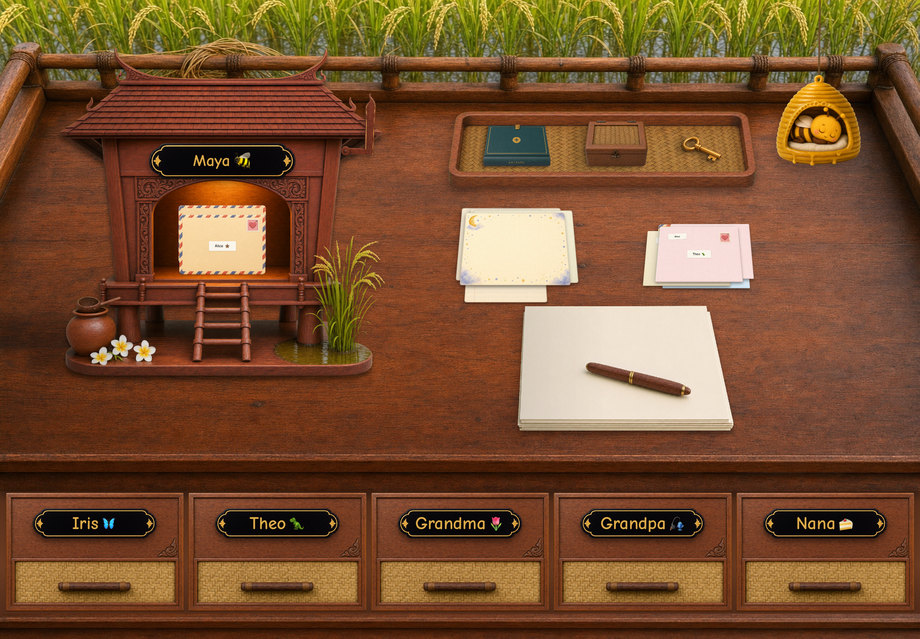
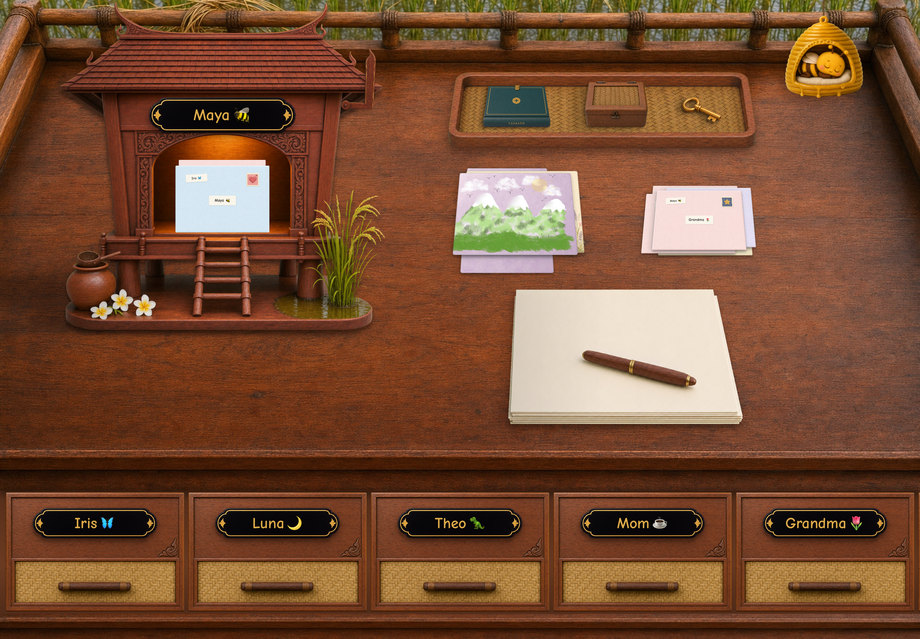
The desks wear the new cast, the consent card gets a real shield, and the letters section says what a letter carries
Six collection desks and the "Start at your desk" capture re-shot from the
app repo's screenshot pipeline (scripts/web-desk-exports.py there): Maya's
rail is Iris, Luna, Theo, Mom, Grandma, and the pile shows the real
mountain letter. Same file names and sizes, so nothing else moved.

"Verified parental consent" trades its stroked line icon for a wooden
shield with a brass check, generated in the same material language as the
key and the lockbox beside it and shared with the App Store screenshots
(build-safety-art.py reads it from the app repo's samples/desk_objects).

"Designed differently" gets its lede back — "One letter at a time. No
photos or links. No pressure to reply." — and its middle pair becomes
"Photos and links → Words, drawings and imagination", which is the design
decision the other two rows did not cover.

diff --git a/index.html b/index.html
@@ -43,7 +43,7 @@
   <link rel="stylesheet" href="https://fonts.googleapis.com/css2?family=Courier+Prime:wght@400;700&amp;family=Lora:ital,wght@0,400..700;1,400..700&amp;family=Plus+Jakarta+Sans:wght@400..800&amp;display=swap" />
   <!-- home.css styles THIS PAGE ONLY. Everything else on the site still runs
        styles.css; see the note at the top of home.css. -->
-  <link rel="stylesheet" href="home.css?v=dcc10b1e" />
+  <link rel="stylesheet" href="home.css?v=42a5e73c" />
 </head>
 <body>
 
@@ -844,6 +844,10 @@
       <div class="sec-head sec-head--tight">
         <p class="eyebrow">Designed differently</p>
         <h2>Made to feel like letters.</h2>
+        <!-- The lede is back (Patrick, 2026-09-01), as the same three-beat
+             line the App Store screenshot carries: one claim per beat, no
+             explanation, and the spread below shows each of them. -->
+        <p class="lede">One letter at a time. No photos or links. No pressure to reply.</p>
       </div>
 
       <!-- ONE SPREAD, NOT TWO CARDS. Boxing each half made them read as
@@ -891,9 +895,13 @@
             <dt>Fast back-and-forth</dt>
             <dd>One letter at a time</dd>
           </div>
+          <!-- The middle pair names what a letter carries, not how it is
+               laid out (Patrick, 2026-09-01). "A continuous stream / Each
+               letter gets its own space" restated the first pair; this one
+               is the design decision the other two do not cover. -->
           <div class="spread-row">
-            <dt>A continuous stream</dt>
-            <dd>Each letter gets its own space</dd>
+            <dt>Photos and links</dt>
+            <dd>Words, drawings and imagination</dd>
           </div>
           <div class="spread-row">
             <dt>Built around availability</dt>
@@ -984,7 +992,13 @@
              objects in the product, and a verification has no object, so the
              mark stands in. -->
         <article class="safety-card">
-          <p class="safety-art safety-art--mark"><svg viewBox="0 0 24 24" fill="none" stroke="currentColor" stroke-width="1.6" stroke-linecap="round" stroke-linejoin="round" aria-hidden="true"><path d="M20 13c0 5-3.5 7.5-7.66 8.95a1 1 0 0 1-.67-.01C7.5 20.5 4 18 4 13V6a1 1 0 0 1 1-1c2 0 4.5-1.2 6.24-2.72a1.17 1.17 0 0 1 1.52 0C14.51 3.81 17 5 19 5a1 1 0 0 1 1 1z"/><path d="m9 12 2 2 4-4"/></svg></p>
+          <!-- A Postmello object, not a generic security icon (Patrick,
+               2026-09-01): a small wooden shield with a brass rim and a brass
+               check, rendered in the same material language as the key and
+               the lockbox beside it. Shared with the App Store screenshots;
+               built by scripts/build-safety-art.py from the app repo's
+               samples/desk_objects. -->
+          <p class="safety-art safety-art--shield"><img src="assets/safety-shield.png" alt="" width="300" height="300" loading="lazy" /></p>
           <h3>Verified parental consent</h3>
           <p class="safety-body">Under-13 desks stay closed until an adult approves the desk and completes verification.</p>
         </article>

diff --git a/home.css b/home.css
@@ -2341,6 +2341,10 @@ body::after {
    hierarchy - the objects are the product, the shield is a promise about it. */
 .safety-art--mark { color: var(--sage-600, #7E9463); }
 .safety-art--mark svg { width: 3.25rem; height: 3.25rem; stroke-width: 1.4; }
+/* The shield became an OBJECT on 2026-09-01 - wood and brass like the key
+   and the box - so it sits on the stage at object weight, a hair under the
+   box. .safety-art--mark stays for the day a line icon is wanted again. */
+.safety-art--shield img { max-height: 4.6rem; }
 /* (.safety-art--mark styled the two line icons this section used before every
    point had a real object. The last of them, a crossed-out eye for "no public
    discovery", became a closed drawer on 2026-08-23.) */

diff --git a/scripts/build-safety-art.py b/scripts/build-safety-art.py
@@ -77,9 +77,24 @@ def build_drawers():
     return load("assets/claims/claim-approved.png", root=WEB)
 
 
+def build_shield():
+    """"Verified parental consent" — a wooden shield with a brass check.
+
+    The one point that is a legal fact rather than a product object, and for
+    a year it wore a stroked line icon for that reason. Patrick, 2026-09-01:
+    beside a photographed key and chest a generic security icon reads as a
+    different vocabulary, so the shield became an object in the same
+    material language — generated by the app repo's gen-desk-object.py
+    (`shield`), keyed to transparent there, and shared with the App Store
+    screenshots so the two never drift.
+    """
+    return bed(fit_h(load("samples/desk_objects/safety_shield_transparent.png"), H))
+
+
 if __name__ == "__main__":
     for name, fn in (("safety-closed-box.png", build_closed_box),
-                     ("safety-drawers.png",    build_drawers)):
+                     ("safety-drawers.png",    build_drawers),
+                     ("safety-shield.png",     build_shield)):
         im = fn()
         im.save(os.path.join(WEB, "assets", name), optimize=True)
         print(f"{name:26s} {im.size}")
